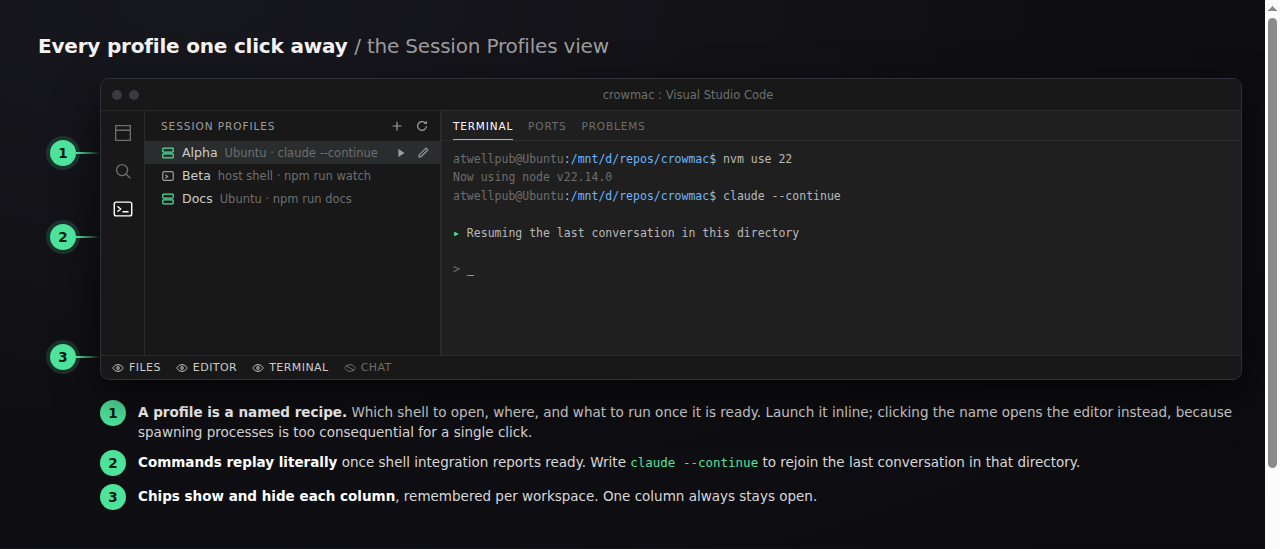
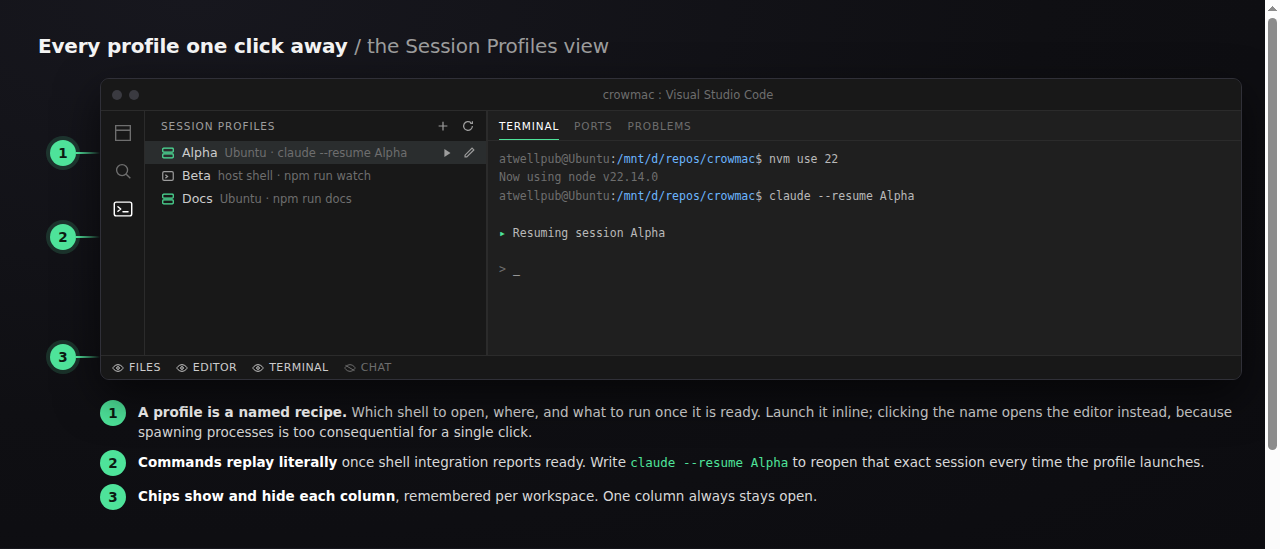
Correct the restore claim, lead with --resume, link the listing
The restore section said VS Code brings terminal tabs back and the extension
only replaces what was inside them. That is backwards for anyone who has not
installed yet: persistentSessionReviveProcess ships as onExit, meaning
application exit, so closing a window loses the terminals outright. Widening it
to onExitAndWindowClose is what makes tabs return at all, and this extension is
what does the widening. sow-001 recorded exactly that and the README did not
carry it through.

Screenshots and the settings help now lead with claude --resume Alpha, which
pins one session per profile, instead of claude --continue, which rejoins
whatever ran last in the directory. The sidebar frame widened to 342px so the
full command is legible rather than ellipsized.

README links to the marketplace listing with version, install and rating
badges, all from img.shields.io, which is on the marketplace badge allowlist.

diff --git a/scripts/screenshots.html b/scripts/screenshots.html
@@ -125,7 +125,7 @@
     <div class="pin" style="top: 266px;">3</div>
     <div class="win" style="height: 302px;">
       <div class="titlebar"><span class="dot"></span><span class="dot"></span><div class="title">crowmac : Visual Studio Code</div></div>
-      <div class="body" style="grid-template-columns: 44px 296px 1fr;">
+      <div class="body" style="grid-template-columns: 44px 342px 1fr;">
         <div class="activity">
           <svg class="act" viewBox="0 0 24 24" fill="none" stroke="currentColor" stroke-width="1.5"><path d="M4 4h16v16H4z"/><path d="M4 9h16"/></svg>
           <svg class="act" viewBox="0 0 24 24" fill="none" stroke="currentColor" stroke-width="1.5"><circle cx="11" cy="11" r="6"/><path d="M20 20l-4.5-4.5"/></svg>
@@ -140,7 +140,7 @@
           </div>
           <div class="row sel">
             <svg class="ico" viewBox="0 0 16 16" fill="none" stroke="var(--green)" stroke-width="1.4"><rect x="2" y="2.5" width="12" height="4.5" rx="1"/><rect x="2" y="9" width="12" height="4.5" rx="1"/></svg>
-            <span>Alpha</span><span class="desc">Ubuntu &middot; claude --continue</span>
+            <span>Alpha</span><span class="desc">Ubuntu &middot; claude --resume Alpha</span>
             <span class="inline">
               <svg class="ico" viewBox="0 0 16 16" fill="currentColor"><path d="M5 3.5l7 4.5-7 4.5z"/></svg>
               <svg class="ico" viewBox="0 0 16 16" fill="none" stroke="currentColor" stroke-width="1.4"><path d="M11.5 2.5l2 2-8 8H3.5v-2z"/></svg>
@@ -160,9 +160,9 @@
           <div class="term-body">
             <div><span class="d">atwellpub@Ubuntu</span>:<span class="b">/mnt/d/repos/crowmac</span>$ nvm use 22</div>
             <div class="d">Now using node v22.14.0</div>
-            <div><span class="d">atwellpub@Ubuntu</span>:<span class="b">/mnt/d/repos/crowmac</span>$ claude --continue</div>
+            <div><span class="d">atwellpub@Ubuntu</span>:<span class="b">/mnt/d/repos/crowmac</span>$ claude --resume Alpha</div>
             <div class="d">&nbsp;</div>
-            <div><span class="g">&#9656;</span> Resuming the last conversation in this directory</div>
+            <div><span class="g">&#9656;</span> Resuming session Alpha</div>
             <div class="d">&nbsp;</div>
             <div><span class="d">&gt;</span> <span style="color:#e8e8e8">_</span></div>
           </div>
@@ -178,7 +178,7 @@
   </div>
   <div class="notes">
     <div class="note"><div class="num">1</div><p><b>A profile is a named recipe.</b> Which shell to open, where, and what to run once it is ready. Launch it inline; clicking the name opens the editor instead, because spawning processes is too consequential for a single click.</p></div>
-    <div class="note"><div class="num">2</div><p><b>Commands replay literally</b> once shell integration reports ready. Write <code>claude --continue</code> to rejoin the last conversation in that directory.</p></div>
+    <div class="note"><div class="num">2</div><p><b>Commands replay literally</b> once shell integration reports ready. Write <code>claude --resume Alpha</code> to reopen that exact session every time the profile launches.</p></div>
     <div class="note"><div class="num">3</div><p><b>Chips show and hide each column</b>, remembered per workspace. One column always stays open.</p></div>
   </div>
 </div>
@@ -217,7 +217,7 @@
                 </span>
               </div>
               <div class="cmd">
-                <span class="idx">2</span><div class="input">claude --continue</div><div class="input">5000</div>
+                <span class="idx">2</span><div class="input">claude --resume Alpha</div><div class="input">5000</div>
                 <span class="acts">
                   <svg class="ico" viewBox="0 0 16 16" fill="none" stroke="currentColor" stroke-width="1.4"><path d="M8 12.5v-9M4.5 7L8 3.5 11.5 7"/></svg>
                   <svg class="ico" viewBox="0 0 16 16" fill="none" stroke="currentColor" stroke-width="1.4"><path d="M8 3.5v9M4.5 9L8 12.5 11.5 9"/></svg>
@@ -276,7 +276,7 @@
           <div class="term-head"><span class="on">TERMINAL</span><span>PORTS</span></div>
           <div class="term-body">
             <div class="d">Alpha</div>
-            <div><span class="g">&#9656;</span> claude --continue</div>
+            <div><span class="g">&#9656;</span> claude --resume Alpha</div>
             <div class="d">&nbsp;</div>
             <div class="d">Beta</div>
             <div><span class="g">&#9656;</span> npm run watch</div>

diff --git a/README.md b/README.md
@@ -1,6 +1,17 @@
 # Terminal Session Profiles
 
+[![Visual Studio Marketplace](https://img.shields.io/visual-studio-marketplace/v/GBTI.gbti-terminal-sessions?label=marketplace&color=4ee39a)](https://marketplace.visualstudio.com/items?itemName=GBTI.gbti-terminal-sessions)
+[![Installs](https://img.shields.io/visual-studio-marketplace/i/GBTI.gbti-terminal-sessions?label=installs&color=4ee39a)](https://marketplace.visualstudio.com/items?itemName=GBTI.gbti-terminal-sessions)
+[![Rating](https://img.shields.io/visual-studio-marketplace/stars/GBTI.gbti-terminal-sessions?label=rating&color=4ee39a)](https://marketplace.visualstudio.com/items?itemName=GBTI.gbti-terminal-sessions&ssr=false#review-details)
+[![License](https://img.shields.io/badge/license-MIT-4ee39a)](LICENSE)
+
 Save a terminal as a reusable **session profile** (which shell to open, where, and what to run once it is ready), then bring it back with one click after a restart. Also repositions the Explorer, terminal and chat panes as collapsible columns.
+
+**[Install from the Visual Studio Marketplace](https://marketplace.visualstudio.com/items?itemName=GBTI.gbti-terminal-sessions)**, or from Quick Open inside VS Code (`Ctrl+P`):
+
+```
+ext install GBTI.gbti-terminal-sessions
+```
 
 ![Every profile one click away: the Session Profiles view, with a profile launching claude --continue in the terminal column](.product/public/01-profiles.png)
 
@@ -18,7 +29,11 @@ Commands run in order once shell integration reports ready. **Every command but 
 
 ### Restoring after a restart
 
-VS Code brings terminal *tabs* back, but not what was running in them: a revived tab is a fresh default-profile shell with replayed scrollback. Terminal Sessions closes that gap. Launched profiles are remembered per workspace and reopened automatically on startup, or on demand from the **Restore** chip in the status bar.
+Out of the box, closing a VS Code **window** loses your terminals entirely. `terminal.integrated.persistentSessionReviveProcess` defaults to `onExit`, which means *application* exit, so a window close or a stopped debug session takes them with it. Terminal Sessions widens that to `onExitAndWindowClose`, and that alone is what makes the tabs come back.
+
+Tabs are only half of it, though. A revived tab is a fresh **default-profile** shell with your old scrollback replayed into it: the name is right and the text looks familiar, but the shell is wrong and nothing is running. In testing, an `Alpha` tab that had been Ubuntu with `claude` in it came back as a bare `PS D:\...>` prompt.
+
+So the extension does the other half too. Launched profiles are remembered per workspace, and on startup each revived tab whose name matches a saved profile is disposed and relaunched as that profile, in the right shell, with its commands replayed. Automatic by default, or on demand from the **Restore** chip in the status bar.
 
 A terminal whose process genuinely survived is left alone rather than replaced: the process id recorded at launch is compared against the one that came back, because the two cases are indistinguishable by name and getting it wrong would kill a live session.
 

diff --git a/CHANGELOG.md b/CHANGELOG.md
@@ -4,6 +4,22 @@ All notable changes to **Terminal Sessions** are documented here. The format fol
 [Keep a Changelog](https://keepachangelog.com/en/1.1.0/), and this project adheres to
 [Semantic Versioning](https://semver.org/spec/v2.0.0.html).
 
+## [0.2.2] - 2026-07-31
+
+### Fixed
+
+- The restore section claimed VS Code brings terminal tabs back on its own. It does not: closing a
+  window loses them outright, because `persistentSessionReviveProcess` ships as `onExit`, meaning
+  *application* exit. Widening it is what makes the tabs return at all, and that widening is
+  something this extension does. The old wording described post-install behaviour as though it were
+  stock, which read backwards to anyone who had not installed yet.
+
+### Changed
+
+- Screenshots and the settings help lead with `claude --resume Alpha`, pinning one exact session per
+  profile, rather than `claude --continue`, which rejoins whatever ran last in that directory.
+- README links to the marketplace listing, with version, install and rating badges.
+
 ## [0.2.1] - 2026-07-31
 
 ### Changed
@@ -37,9 +53,11 @@ Initial public release on the Visual Studio Marketplace.
 
 ### Session restore
 
-- **Automatic restore on startup.** Launched profiles are remembered per workspace and reopened
-  after a restart, closing the gap VS Code leaves: it revives terminal *tabs*, but a revived tab is a
-  fresh default-profile shell with replayed scrollback, not the process you left running.
+- **Automatic restore on startup.** Closing a VS Code window loses terminals outright by default,
+  because `persistentSessionReviveProcess` ships as `onExit`, meaning *application* exit. Widening it
+  to `onExitAndWindowClose` is what brings the tabs back at all. Even then a revived tab is a fresh
+  default-profile shell with replayed scrollback, not the process you left running, so each tab
+  matching a saved profile is disposed and relaunched as that profile.
 - **Live processes are never killed.** The process id recorded at launch is compared against the one
   that came back, so a terminal that genuinely survived is left alone rather than replaced.
 - **Manual control.** *Restore Last Session* from the status bar or palette, and *Stop Restoring a
